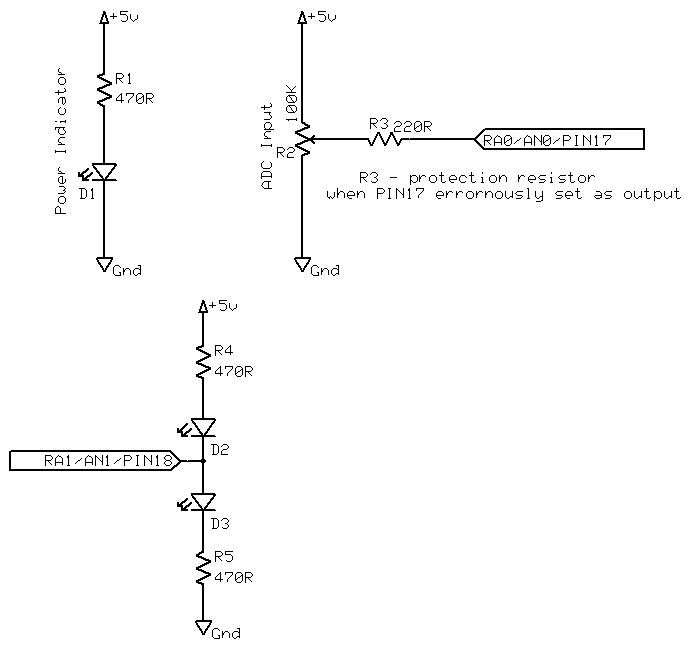
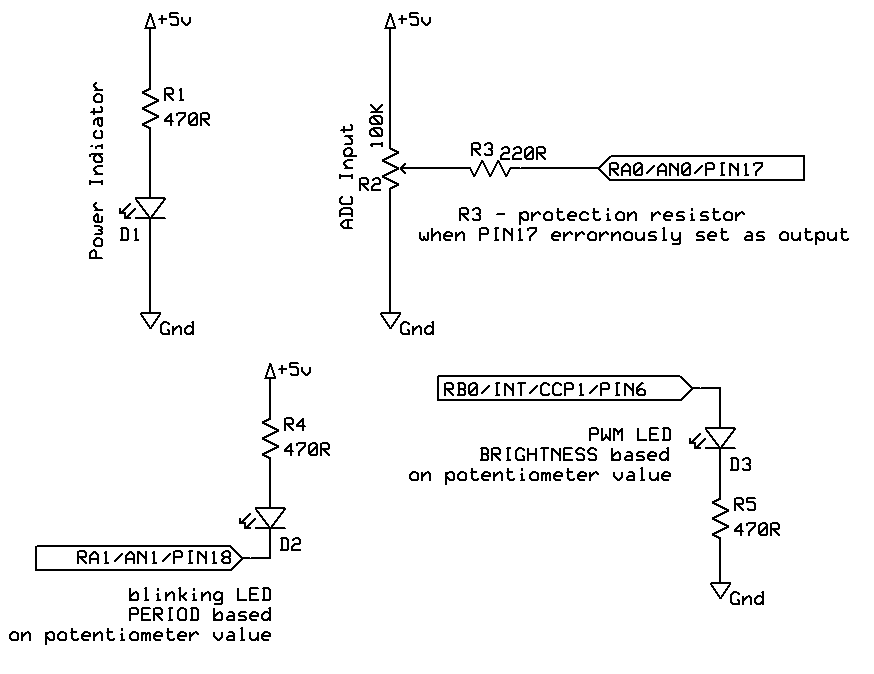
C project finished

diff --git a/pic16f88_adc_pwm_c.X/pic1688_adc_pwm.c b/pic16f88_adc_pwm_c.X/pic1688_adc_pwm.c
@@ -1,15 +1,15 @@
 /*
  * File:   pic1688_adc_pwm.c
  * Summary:
- *    Done: - read potentiometer value with ADC on AN0/PIN17
- *          - blinking LEDs with delay ADC*1ms on RA1/PIN18
- *          - brightness of LED on RB0 using PWM
- *     I/O: - RA0/AN0/PIN17 ADC Pontentiometer input, channel 0
- *          - RA1/AN1/PIN18 LED output, frequency by pot
+ *          1. read potentiometer value with ADC on AN0/PIN17
+ *          2. set brightness LED on RB0 using PWM based on  potentiometer value
+ *          3. blinking other LED on RA1, period based on potentiometer value
+ *     I/O: - RA0/AN0/PIN17 ADC potentiometer input, channel 0
+ *          - RA1/AN1/PIN18 LED output, period by pot
  *          - RB0/INT/CCP1/PIN6 LED PWM Output, brightness by pot
  *  DevKit: DM163045 - PICDEM Lab Development Kit
- *    MCU: PIC16F88 PDIP
- *     SW: MPLAB X IDE v6.05, XC8 v2.40, DFP 1.3.42
+ *     MCU: PIC16F88 PDIP
+ *      SW: MPLAB X IDE v6.05, XC8 v2.40, DFP 1.3.42
  * Created on December 13, 2022, 1:20 PM
  */
 
@@ -66,7 +66,6 @@ void toggle_LED(void)
     PORTA = vLATA;
 }
 
-
 u16 read_ADC(void)
 {
     u16 tmp;
@@ -82,9 +81,7 @@ u16 read_ADC(void)
 }
 
 void main(void) {
-    u16 adc;
-    u16 i;
-    u16 ccpr;
+    u16 adc,i,ccpr,ticks=0,ledper=0;
     u32 tmp32;
     
     // initialize PINs as soon as possible
@@ -119,7 +116,7 @@ void main(void) {
     TMR2 = 0; // reset PWM timer
     // 1. set period
     PR2 = 100; // for 1000 Hz PWM period   
-    // 2.  set duty cycle
+    // 2.  set duty cycle (any value <= PR2 is ok)
     ccpr = 25; // see README.md for computation
     CCPR1L = (u8)(ccpr >> 2); // MSBs are here
     // set period and enable PWM
@@ -136,12 +133,18 @@ void main(void) {
        tmp32 = adc;
        ccpr = (u16)( tmp32 * 4 * (PR2 + 1 ) / ADC_MAX_VALUE);
        CCPR1L = (u8)(ccpr >> 2); // MSBs are here
-       // TODO: set also CCP1CON...
+       CCP1CON = (u8)(((ccpr & 3) << 4) | 0x0c); // set LSBs 2-bit
+
+       // stretch LED period from 50ms to 1000ms, ledper 5 to 100
+       ledper = adc * 95 / ADC_MAX_VALUE + 5;
        
-       // FIXME: this causes high latency on high adc values
-       toggle_LED();
-       for(i=0;i!=adc;i++){
-        __delay_ms(1); // argument must be CONSTANT           
+       // 10ms is highest non-observable input latency
+       // (actually same as USB 1.x HID devices - mouse, keyboard...)
+       __delay_ms(10); // argument must be CONSTANT
+       ticks++;
+       if (ticks >= ledper){
+           toggle_LED();
+           ticks = 0;
        }
     }
 }

diff --git a/README.md b/README.md
@@ -1,21 +1,21 @@
 # ADC and PWM on PIC16F88
 
-Project goal: read potentiometer value using ADC and output PWM to LED.
+Demo project to read potentiometer value using ADC and output PWM to LED.
+I use it to learn how to use ADC and PWM on [PIC16F88][PIC16F88]. 
 
-- Done:
-  - Reading potentiometer value using ADC, on `RA0/AN0/PIN17`, ADC produces
-    10-bit value from 0 to 1023 (0x3ff).
-  - blinking LED on `RA1/AN1/PIN18`, `period = ADC * 1 ms`
-  - prepared PWM (currently fixed duty only)
-  - regulate LED brightness using PWM
-- TODO: use TMR1 + IRQ or better for cycle for blinking LED to avoid
-  high latencie for hight ADC values
+What it does (in a loop, around every 10ms):
+1. Read potentiometer value using ADC, on `RA0/AN0/PIN17`, ADC produces
+    10-bit value from 0 to 1023 (0x3ff)
+1. set LED brightness on `RB0/INT/CCP1/PIN6` using PWM - duty based on ADC value, PWM frequency
+   is fixed at 1 kHz
+1. Blinks LED on `RA1/AN1/PIN18`, period based on ADC value, the shortest period is 50ms,
+   longest is 1s
 
 Used HW:
 - [PICDEM Lab Development Kit][DM163045] 
-- [PIC16F88][PIC16F88] - included with latest series of DM163045
+- [PIC16F88][PIC16F88] - included with latest series of [DM163045][DM163045]
 
-Early schematic is below:
+Schematic is below:
 
 ![PIC16F88 ADC PWM Schematic](https://raw.githubusercontent.com/hpaluch/pic16f88-adc-pwm/master/ExpressPCB/pic16f88-adc-pwm.png)
 
@@ -78,9 +78,6 @@ Linker map file is generated in:
 ```
 pic16f88_adc_pwm_c.X/dist/default/production/pic16f88_adc_pwm_c.X.production.map
 ```
-
-# Tips
-
 
 # Resources
 
